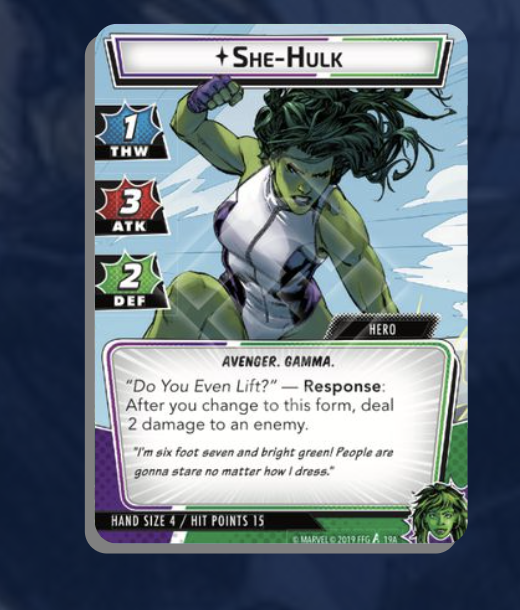
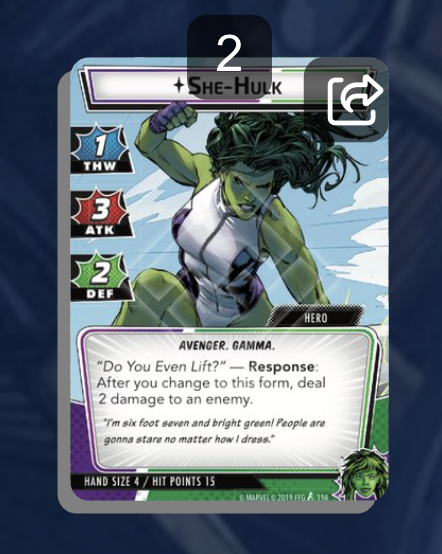
Add search and update a few images / gifs

diff --git a/docusaurus.config.js b/docusaurus.config.js
@@ -31,7 +31,7 @@ const config = {
     defaultLocale: "en",
     locales: ["en"],
   },
-
+  plugins: [require.resolve("@cmfcmf/docusaurus-search-local")],
   presets: [
     [
       "classic",

diff --git a/docs/basics/cards.md b/docs/basics/cards.md
@@ -10,7 +10,7 @@ Cards are the basic, most used item in cardtable!
 
 Cards can be stacked, and you will operate on a stack of cards as a single entity, so throughout the documentation I'll refer to "Card Stacks"
 
-You can tell the difference between a single card and a card stack, because the card stack has a slightly more "3d" look:
+You can tell the difference between a single card and a card stack, because the card stack has a slightly more "3d" look, along with a number at the top indicating the number of cards in the stack
 
 Single card
 
